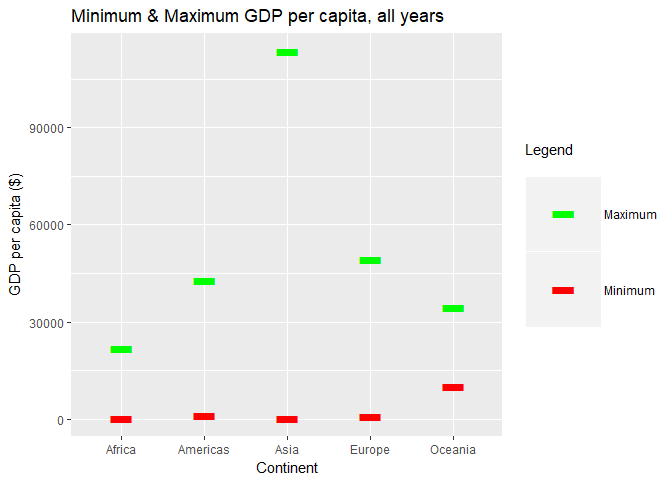
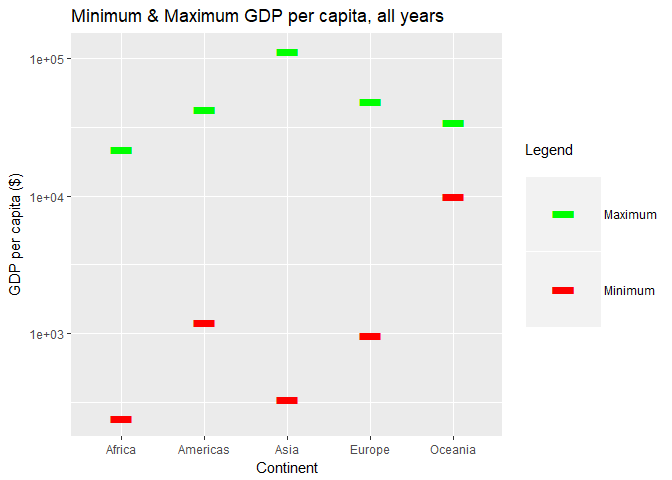
task 4

diff --git a/hw03-gapminder.md b/hw03-gapminder.md
@@ -12,6 +12,7 @@ Initialize the data
 ``` r
 suppressPackageStartupMessages(library(tidyverse))
 suppressPackageStartupMessages(library(gapminder))
+suppressPackageStartupMessages(library(knitr))
 ```
 
 -   Take a snapshot of the data to *sanity check* that the data and variables appear as we expect:
@@ -35,7 +36,7 @@ suppressPackageStartupMessages(library(gapminder))
 Task 1
 ------
 
-**Task:** Get the max and min GDP per capita for all continents
+*Get the max and min GDP per capita for all continents.*
 
 1.  Filter the data by continent
 2.  Select the GDP per capita
@@ -72,6 +73,18 @@ max_gdp <- select(gapminder, continent, gdpPercap) %>%
     ## 5   Oceania 10039.5956  34435.37
 
 ``` r
+kable(min_max_gdp)
+```
+
+| continent |    min\_gdp|   max\_gdp|
+|:----------|-----------:|----------:|
+| Africa    |    241.1659|   21951.21|
+| Americas  |   1201.6372|   42951.65|
+| Asia      |    331.0000|  113523.13|
+| Europe    |    973.5332|   49357.19|
+| Oceania   |  10039.5956|   34435.37|
+
+``` r
 #Sanity check the value
 str(min_max_gdp)
 ```
@@ -93,7 +106,7 @@ ggplot(min_max_gdp, aes(x = continent, y = value, color = variable)) +
   geom_point(aes(y = min_gdp, col = "min_gdp"), size=20, shape = "-") +
   geom_point(aes(y = max_gdp, col = "max_gdp"), size=20, shape = "-") +
   #Change y-axis to log-scale given the wide range in values
-  #scale_y_log10() +
+  scale_y_log10() +
   #Add labels
   labs(title = "Minimum & Maximum GDP per capita, all years",
   x = "Continent", y = "GDP per capita ($)", color = "Legend\n") +
@@ -117,7 +130,7 @@ ggplot(min_max_gdp, aes(x = continent, y = value, color = variable)) +
 Task 2
 ------
 
-**Task:** Look at the spread of GDP per capita within the continents
+*Look at the spread of GDP per capita within the continents.*
 
 The initial approach is similar to Task 1: *1. Filter the data by continent* *2. Select the GDP per capita* Now, let's consider the spread of the data, rather than the upper and lower limits: 3. Find the spread of the data 4. Present the data in a table 5. Visualize the data in a graph 6. Interpret the data (i) Say we want to compare the relative ranges. We could compare just the min and max, but we will get a more complete picture by looking at the distribution. (ii) Perhaps we want to know which continent has the widest spread? Narrowest spread? (iii) Referred to *Reflections:* *What different observations would I make based on this data vs. the previous? What are the adv/disadv of this analysis?* <https://www.dummies.com/programming/r/how-to-check-quantiles-in-r/> *the min and max values determined in Task 1 are also shown in the spread, but the spread also gives us more information* *Could also filter for a specific year or range of years; could also use faceting to display min/max per continent for all years*
 
@@ -127,17 +140,17 @@ The initial approach is similar to Task 1: *1. Filter the data by continent* *2.
 gapminder %>% 
   select(continent, gdpPercap) %>% 
   group_by(continent) %>% 
-    summarize(Mean=mean(gdpPercap), SD=sd(gdpPercap), Var=var(gdpPercap))
+    summarize(Mean=mean(gdpPercap), Median = median(gdpPercap), SD=sd(gdpPercap), Var=var(gdpPercap)) %>% 
+     kable()
 ```
 
-    ## # A tibble: 5 x 4
-    ##   continent   Mean     SD        Var
-    ##   <fct>      <dbl>  <dbl>      <dbl>
-    ## 1 Africa     2194.  2828.   7997187.
-    ## 2 Americas   7136.  6397.  40918591.
-    ## 3 Asia       7902. 14045. 197272506.
-    ## 4 Europe    14469.  9355.  87520020.
-    ## 5 Oceania   18622.  6359.  40436669.
+| continent |       Mean|     Median|         SD|        Var|
+|:----------|----------:|----------:|----------:|----------:|
+| Africa    |   2193.755|   1192.138|   2827.930|    7997187|
+| Americas  |   7136.110|   5465.510|   6396.764|   40918591|
+| Asia      |   7902.150|   2646.787|  14045.373|  197272506|
+| Europe    |  14469.476|  12081.749|   9355.213|   87520020|
+| Oceania   |  18621.609|  17983.304|   6358.983|   40436669|
 
 ``` r
 #Visualize the data in a graph (violin plot)
@@ -145,7 +158,9 @@ gapminder %>%
   select(continent, gdpPercap) %>% 
   group_by(continent) %>% 
     ggplot(aes(continent, gdpPercap)) +
-    geom_violin() +
+    #Change y-axis to log-scale given the wide range in values
+    scale_y_log10() +
+    geom_violin(fill = "yellow") +
   #Add labels
   labs(title = "Spread of GDP per capita, all years",
   x = "Continent", y = "GDP per capita ($)")
@@ -159,7 +174,9 @@ gapminder %>%
   select(continent, gdpPercap) %>% 
   group_by(continent) %>% 
     ggplot(aes(continent, gdpPercap)) +
-    geom_boxplot() +
+    #Change y-axis to log-scale given the wide range in values
+     scale_y_log10() +
+    geom_boxplot(fill = "yellow") +
   #Add labels
   labs(title = "Spread of GDP per capita, all years",
   x = "Continent", y = "GDP per capita ($)")
@@ -170,42 +187,122 @@ gapminder %>%
 Task 3
 ------
 
-**Task:** *Compute a trimmed mean of life expectancy for different years. Or a weighted mean, weighting by population. Just try something other than the plain vanilla mean.* \* I will examine the weighted mean (by population) of life expectancy for different years for Canada
+*Compute a trimmed mean of life expectancy for different years. Or a weighted mean, weighting by population. Just try something other than the plain vanilla mean.* \* I will examine the weighted mean (by population) of life expectancy for different years for Canada
 
-1.  Filter the data for Canada
-2.  Select the year, population and life expectancy
-3.  x = year, y = life\_Exp; weight = pop
-4.  Present the data in a table
-5.  Visualize the data in a graph
-6.  Interpret the data *Reflections:*
+1.  Select the year, continent, population and life expectancy
+2.  Evaluate the traditional mean, weighted mean by population and trimmed mean (trimming 5 values on either end of the data)
+3.  Present the data in a table
+4.  Visualize the data in a graph
+5.  Interpret the data *Reflections:* *there's way too much data to view it for all years in table format; graph format is better for this* *table format shows the exact values, which is a nice benefit*
 
 ``` r
-gapminder %>% 
+(mean_comp <- gapminder) %>% 
   select(year, continent, lifeExp, pop) %>% 
-    group_by(year, continent) %>% 
-      summarize(mean_lifeExp = mean(lifeExp))
+      group_by(year, continent) %>% 
+       summarize(mean_lifeExp = mean(lifeExp), w_mean_lifeExp = weighted.mean(lifeExp, pop), t_mean_lifeExp = mean(lifeExp, trim = 0.3)) %>% 
+        kable()
 ```
 
-    ## # A tibble: 60 x 3
-    ## # Groups:   year [?]
-    ##     year continent mean_lifeExp
-    ##    <int> <fct>            <dbl>
-    ##  1  1952 Africa            39.1
-    ##  2  1952 Americas          53.3
-    ##  3  1952 Asia              46.3
-    ##  4  1952 Europe            64.4
-    ##  5  1952 Oceania           69.3
-    ##  6  1957 Africa            41.3
-    ##  7  1957 Americas          56.0
-    ##  8  1957 Asia              49.3
-    ##  9  1957 Europe            66.7
-    ## 10  1957 Oceania           70.3
-    ## # ... with 50 more rows
+|  year| continent |  mean\_lifeExp|  w\_mean\_lifeExp|  t\_mean\_lifeExp|
+|-----:|:----------|--------------:|-----------------:|-----------------:|
+|  1952| Africa    |       39.13550|          38.79973|          39.15482|
+|  1952| Americas  |       53.27984|          60.23599|          53.31764|
+|  1952| Asia      |       46.31439|          42.94114|          45.12860|
+|  1952| Europe    |       64.40850|          64.90540|          65.54583|
+|  1952| Oceania   |       69.25500|          69.17040|          69.25500|
+|  1957| Africa    |       41.26635|          40.94031|          41.01205|
+|  1957| Americas  |       55.96028|          62.01806|          56.55545|
+|  1957| Asia      |       49.31854|          47.28835|          48.39533|
+|  1957| Europe    |       66.70307|          66.89364|          67.70667|
+|  1957| Oceania   |       70.29500|          70.31693|          70.29500|
+|  1962| Africa    |       43.31944|          43.09925|          42.87036|
+|  1962| Americas  |       58.39876|          63.43706|          59.32182|
+|  1962| Asia      |       51.56322|          46.57369|          50.54327|
+|  1962| Europe    |       68.53923|          68.45957|          69.50750|
+|  1962| Oceania   |       71.08500|          70.98808|          71.08500|
+|  1967| Africa    |       45.33454|          45.17721|          44.92855|
+|  1967| Americas  |       60.41092|          64.50630|          61.36200|
+|  1967| Asia      |       54.66364|          53.88261|          54.28301|
+|  1967| Europe    |       69.73760|          69.54963|          70.47833|
+|  1967| Oceania   |       71.31000|          71.17848|          71.31000|
+|  1972| Africa    |       47.45094|          47.21229|          47.03082|
+|  1972| Americas  |       62.39492|          65.70490|          63.27855|
+|  1972| Asia      |       57.31927|          57.52159|          57.72693|
+|  1972| Europe    |       70.77503|          70.46884|          71.03717|
+|  1972| Oceania   |       71.91000|          71.92273|          71.91000|
+|  1977| Africa    |       49.58042|          49.20883|          49.21564|
+|  1977| Americas  |       64.39156|          67.60591|          65.43445|
+|  1977| Asia      |       59.61056|          59.55648|          60.74836|
+|  1977| Europe    |       71.93777|          71.53989|          72.04050|
+|  1977| Oceania   |       72.85500|          73.25684|          72.85500|
+|  1982| Africa    |       51.59287|          51.01744|          51.10986|
+|  1982| Americas  |       66.22884|          69.19264|          67.33682|
+|  1982| Asia      |       62.61794|          61.57472|          63.42100|
+|  1982| Europe    |       72.80640|          72.56247|          73.13033|
+|  1982| Oceania   |       74.29000|          74.58291|          74.29000|
+|  1987| Africa    |       53.34479|          52.82479|          52.59827|
+|  1987| Americas  |       68.09072|          70.35814|          68.81500|
+|  1987| Asia      |       64.85118|          63.53710|          65.93267|
+|  1987| Europe    |       73.64217|          73.44717|          74.07408|
+|  1987| Oceania   |       75.32000|          75.98107|          75.32000|
+|  1992| Africa    |       53.62958|          53.37292|          53.35745|
+|  1992| Americas  |       69.56836|          71.72177|          70.03055|
+|  1992| Asia      |       66.53721|          65.14874|          67.72627|
+|  1992| Europe    |       74.44010|          74.44273|          75.02908|
+|  1992| Oceania   |       76.94500|          77.35788|          76.94500|
+|  1997| Africa    |       53.59827|          53.28327|          52.57077|
+|  1997| Americas  |       71.15048|          73.19154|          71.46118|
+|  1997| Asia      |       68.02052|          66.77092|          69.21373|
+|  1997| Europe    |       75.50517|          75.70849|          76.09958|
+|  1997| Oceania   |       78.19000|          78.61843|          78.19000|
+|  2002| Africa    |       53.32523|          53.30314|          51.56086|
+|  2002| Americas  |       72.42204|          74.24736|          72.55145|
+|  2002| Asia      |       69.23388|          68.13732|          70.45633|
+|  2002| Europe    |       76.70060|          77.02232|          77.24142|
+|  2002| Oceania   |       79.74000|          80.16006|          79.74000|
+|  2007| Africa    |       54.80604|          54.56441|          53.37859|
+|  2007| Americas  |       73.60812|          75.35668|          73.69555|
+|  2007| Asia      |       70.72848|          69.44386|          71.78233|
+|  2007| Europe    |       77.64860|          77.89057|          78.24717|
+|  2007| Oceania   |       80.71950|          81.06215|          80.71950|
+
+``` r
+#Visualize the data in a graph
+
+w_mean <- gapminder %>%
+  group_by(year,continent) %>%
+   summarize(w_mean = weighted.mean(lifeExp, pop))
+
+spread_w_mean <- spread(w_mean, key = "year", value = "w_mean")
+kable(spread_w_mean)
+```
+
+| continent |      1952|      1957|      1962|      1967|      1972|      1977|      1982|      1987|      1992|      1997|      2002|      2007|
+|:----------|---------:|---------:|---------:|---------:|---------:|---------:|---------:|---------:|---------:|---------:|---------:|---------:|
+| Africa    |  38.79973|  40.94031|  43.09925|  45.17721|  47.21229|  49.20883|  51.01744|  52.82479|  53.37292|  53.28327|  53.30314|  54.56441|
+| Americas  |  60.23599|  62.01806|  63.43706|  64.50630|  65.70490|  67.60591|  69.19264|  70.35814|  71.72177|  73.19154|  74.24736|  75.35668|
+| Asia      |  42.94114|  47.28835|  46.57369|  53.88261|  57.52159|  59.55648|  61.57472|  63.53710|  65.14874|  66.77092|  68.13732|  69.44386|
+| Europe    |  64.90540|  66.89364|  68.45957|  69.54963|  70.46884|  71.53989|  72.56247|  73.44717|  74.44273|  75.70849|  77.02232|  77.89057|
+| Oceania   |  69.17040|  70.31693|  70.98808|  71.17848|  71.92273|  73.25684|  74.58291|  75.98107|  77.35788|  78.61843|  80.16006|  81.06215|
+
+``` r
+w_mean %>%
+  ggplot(aes(year, w_mean)) +
+  geom_point(aes(color = continent)) +
+  geom_line(method = 'lm', aes(color = continent)) +
+  #Add labels
+  labs(title = "Weighted Mean Life Expectancy over Time (Weighted by population)",
+    x = "Year", y = "Life Expectancy")
+```
+
+    ## Warning: Ignoring unknown parameters: method
+
+![](hw03-gapminder_files/figure-markdown_github/unnamed-chunk-5-1.png)
 
 Task 4
 ------
 
-**Task:** How is life expectancy changing over time on different continents?
+*How is life expectancy changing over time on different continents?*
 
 1.  Filter the data by continent
 2.  Select the GDP per capita
